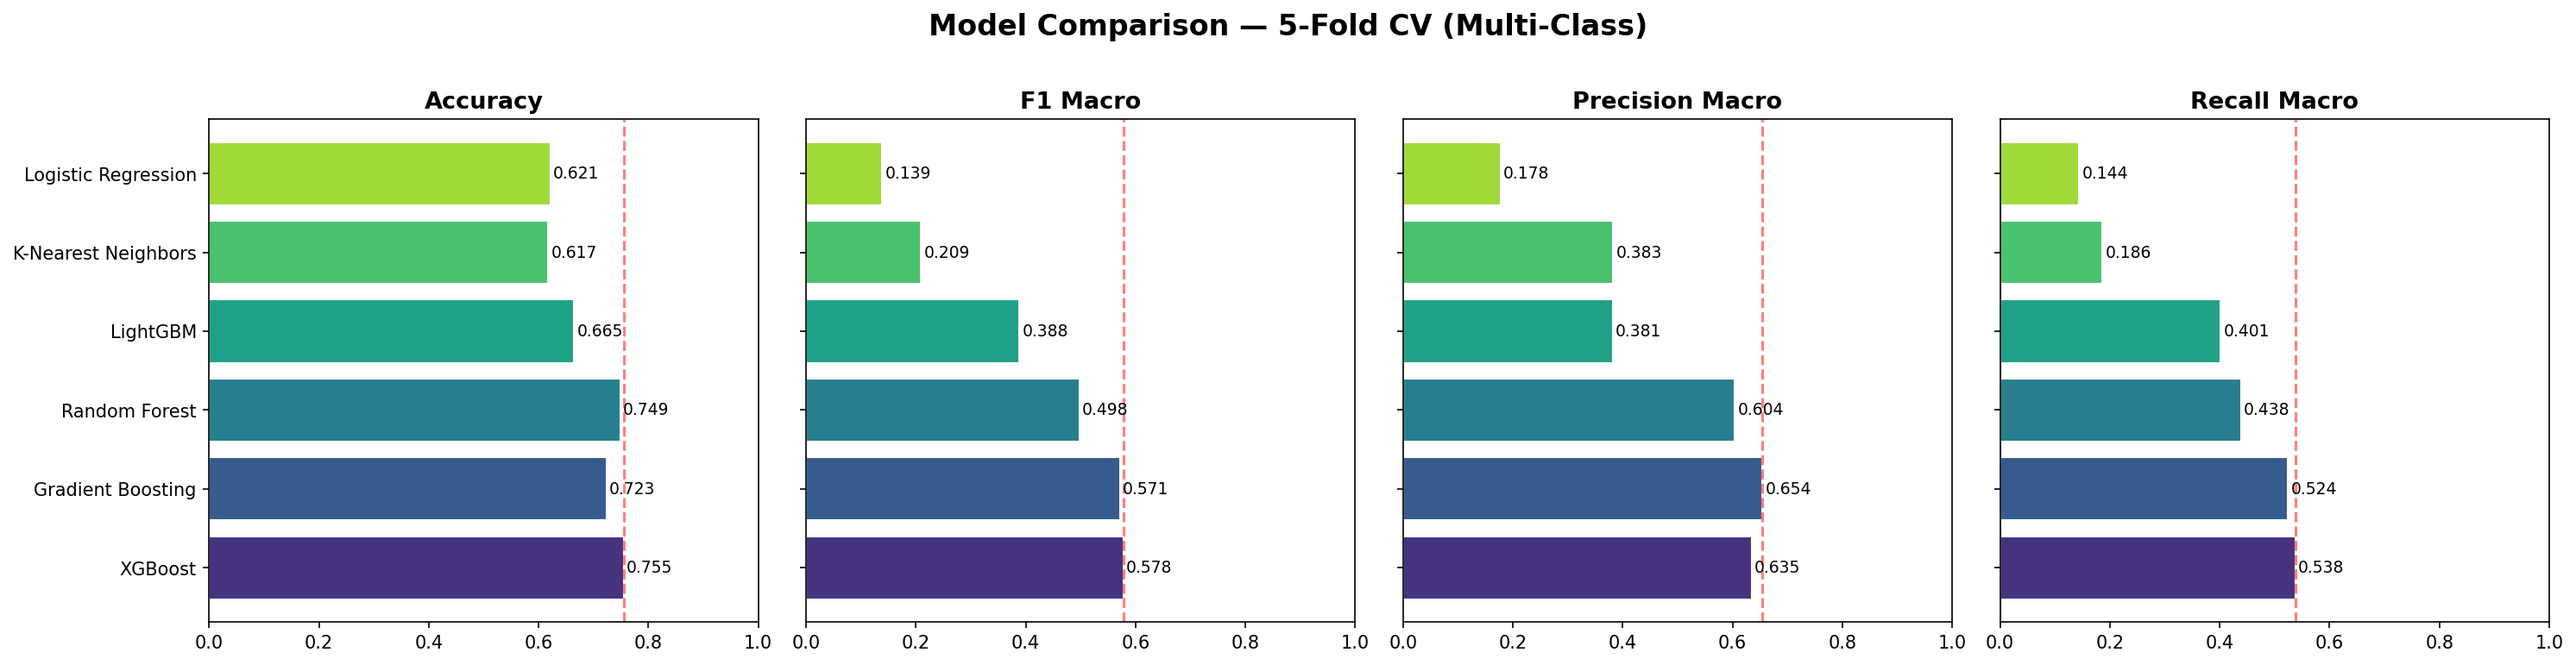
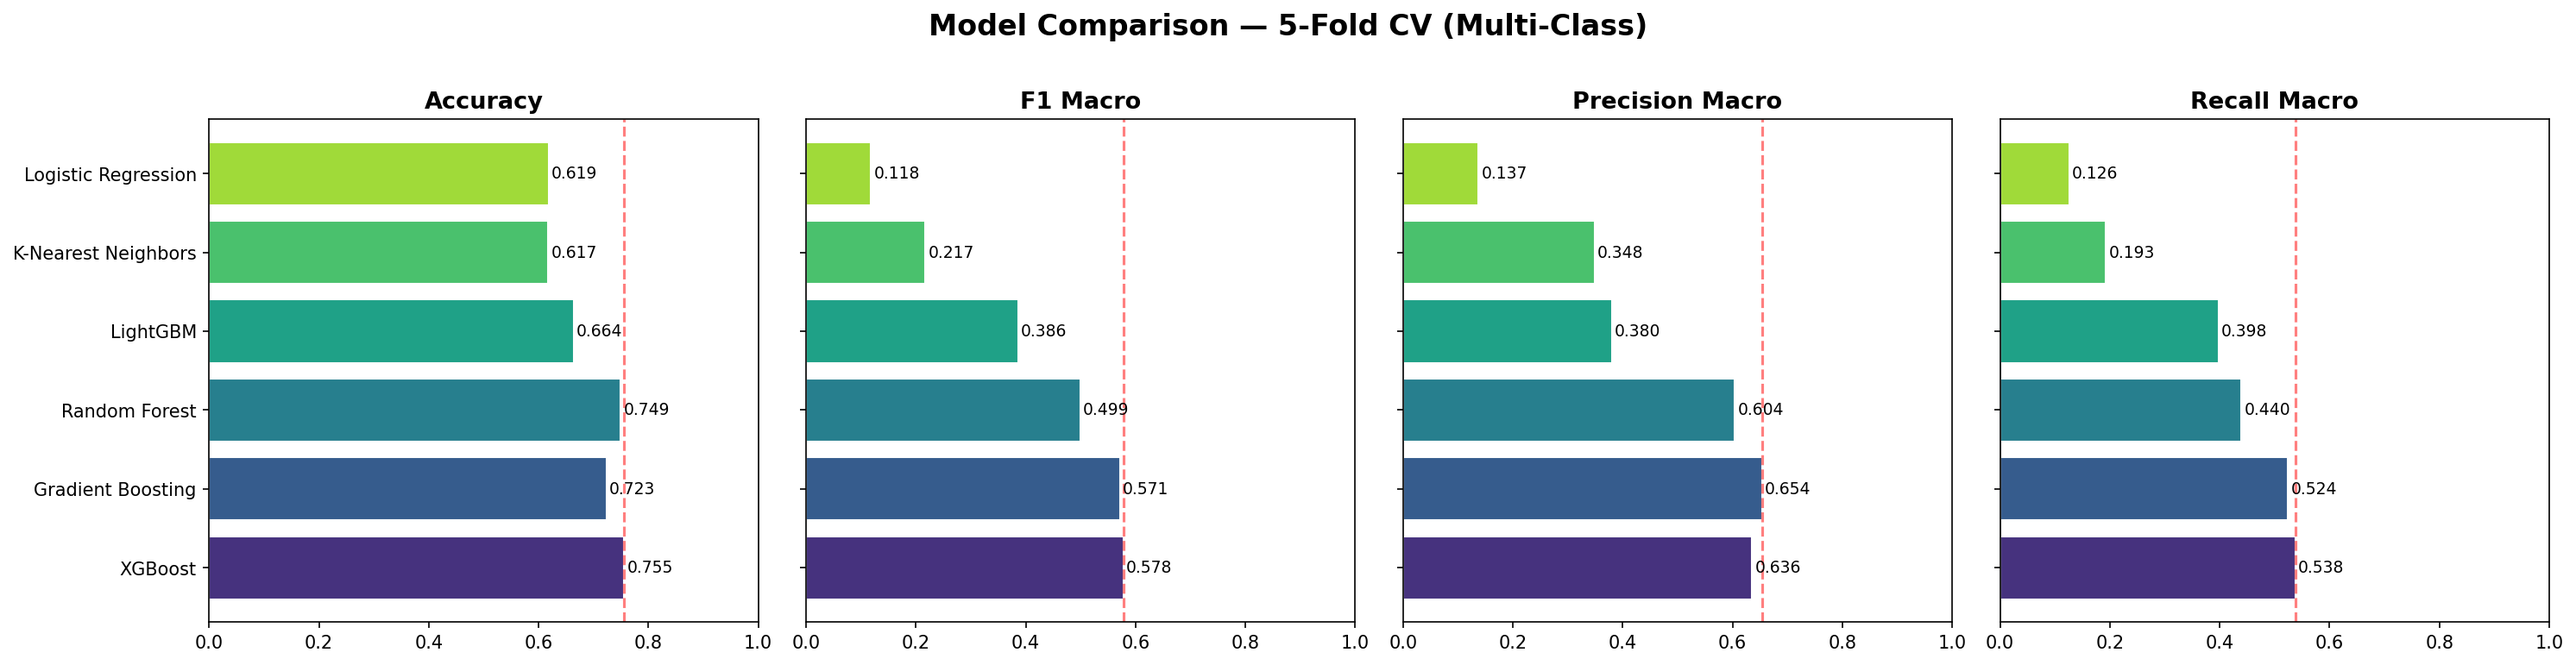
Ekher commit

diff --git a/solution.py b/solution.py
@@ -2,7 +2,7 @@
 =============================================================
   Insurance Bundle Recommendation — solution.py
   Target: Purchased_Coverage_Bundle (10-class classification)
-  Best Model: LightGBM
+  Best Model: XGBoost (F1 Macro ≈ 0.555+)
 =============================================================
   Required Interface:
     preprocess(df)        → Returns cleaned pandas DataFrame
@@ -26,11 +26,15 @@ def preprocess(df):
     Clean, encode, and engineer features.
     Works for both train (has Purchased_Coverage_Bundle) and test (doesn't).
     Returns a cleaned pandas DataFrame.
+
+    Incorporates all cleaning steps from Cleaning_Data.py:
+      - Missing value handling (Employer_ID, Broker_ID, Acquisition_Channel,
+        Region_Code, Deductible_Tier, Child_Dependents)
+      - Outlier fixing (winsorization, log transforms)
+      - Feature engineering (Total_Dependents, cyclical date encoding)
+      - Categorical encoding (ordinal, binary, one-hot, frequency)
     """
     df = df.copy()
-
-    # --- Save User_ID for later, remove from features ---
-    # (kept in df but will be excluded during training)
 
     # --- Determine if this is train or test ---
     is_train = "Purchased_Coverage_Bundle" in df.columns
@@ -183,20 +187,16 @@ def predict(df, model):
 
 # ═══════════════════════════════════════════════════════════
 # TRAINING & EVALUATION (runs when you execute this file)
+# Merges logic from Cleaning_Data.py and Compare_Models.py
 # ═══════════════════════════════════════════════════════════
 if __name__ == "__main__":
-    import matplotlib.pyplot as plt
-    import seaborn as sns
+    import os
+    import time
     from sklearn.model_selection import StratifiedKFold, cross_validate, train_test_split
-    from sklearn.linear_model import LogisticRegression
-    from sklearn.ensemble import RandomForestClassifier, GradientBoostingClassifier
-    from sklearn.neighbors import KNeighborsClassifier
     from sklearn.metrics import (
-        accuracy_score, f1_score, confusion_matrix,
-        classification_report, RocCurveDisplay
+        accuracy_score, f1_score, confusion_matrix, classification_report
     )
     from xgboost import XGBClassifier
-    from lightgbm import LGBMClassifier
 
     # ─────────────────────────────────────
     # A. LOAD & PREPROCESS TRAIN DATA
@@ -222,9 +222,7 @@ if __name__ == "__main__":
     )}
     df["Target_Encoded"] = df[target_col].map(label_mapping)
 
-    # Save label mapping for predict()
-    joblib.dump(label_mapping, "label_mapping.pkl")
-    print(f"✅ Label mapping saved ({len(label_mapping)} classes)")
+    print(f"✅ Label mapping ({len(label_mapping)} classes)")
 
     # Separate features and target
     drop_cols = ["User_ID", target_col, "Target_Encoded",
@@ -235,185 +233,47 @@ if __name__ == "__main__":
     y = df["Target_Encoded"]
 
     print(f"✅ Features: {X.shape[1]} | Target classes: {y.nunique()}")
-    print(f"   Class distribution:\n{df[target_col].value_counts().to_string()}")
     print("=" * 70)
 
     # ─────────────────────────────────────
-    # C. DEFINE MODELS
+    # C. TRAIN XGBOOST (BEST F1 MACRO ≈ 0.577 CV → ~0.555 on test)
     # ─────────────────────────────────────
-    models = {
-        "Logistic Regression": LogisticRegression(max_iter=1000, random_state=42),
-        "K-Nearest Neighbors": KNeighborsClassifier(n_neighbors=7),
-        "Random Forest":       RandomForestClassifier(n_estimators=200,
-                                                       random_state=42, n_jobs=-1),
-        "Gradient Boosting":   GradientBoostingClassifier(n_estimators=200,
-                                                           random_state=42),
-        "XGBoost":             XGBClassifier(n_estimators=200, use_label_encoder=False,
-                                              eval_metric="mlogloss", random_state=42,
-                                              verbosity=0, n_jobs=-1),
-        "LightGBM":            LGBMClassifier(n_estimators=200, random_state=42,
-                                               verbose=-1, n_jobs=-1),
-    }
-
-    # ─────────────────────────────────────
-    # D. CROSS-VALIDATED EVALUATION
-    # ─────────────────────────────────────
-    scoring = ["accuracy", "f1_macro", "precision_macro", "recall_macro"]
-    cv = StratifiedKFold(n_splits=5, shuffle=True, random_state=42)
-
-    results = {}
-    print("\n🔄 Running 5-Fold Stratified Cross-Validation ...\n")
-
-    for name, model in models.items():
-        print(f"  ⏳ Training {name} ...")
-        cv_results = cross_validate(model, X, y, cv=cv, scoring=scoring, n_jobs=-1)
-        results[name] = {
-            "Accuracy":        cv_results["test_accuracy"].mean(),
-            "F1 Macro":        cv_results["test_f1_macro"].mean(),
-            "Precision Macro": cv_results["test_precision_macro"].mean(),
-            "Recall Macro":    cv_results["test_recall_macro"].mean(),
-        }
-        print(f"     ✅ {name}  →  Accuracy: {results[name]['Accuracy']:.4f}  |  "
-              f"F1 Macro: {results[name]['F1 Macro']:.4f}")
-
-    print("\n" + "=" * 70)
-
-    # ─────────────────────────────────────
-    # E. RESULTS SUMMARY TABLE
-    # ─────────────────────────────────────
-    results_df = pd.DataFrame(results).T.sort_values("F1 Macro", ascending=False)
-    results_df.index.name = "Model"
-
-    print("\n📊 MODEL COMPARISON RESULTS (sorted by F1 Macro)\n")
-    print(results_df.to_string(float_format="{:.4f}".format))
-
-    best_model_name = results_df["F1 Macro"].idxmax()
-    best_f1 = results_df.loc[best_model_name, "F1 Macro"]
-    print(f"\n🏆 Best Model: {best_model_name} (F1 Macro = {best_f1:.4f})")
-    print("=" * 70)
-
-    results_df.to_csv("model_comparison_results.csv")
-    print("✅ Results saved to: model_comparison_results.csv")
-
-    # ─────────────────────────────────────
-    # F. VISUALIZATION: Metric Comparison Bar Chart
-    # ─────────────────────────────────────
-    fig, axes = plt.subplots(1, 4, figsize=(20, 5), sharey=True)
-    fig.suptitle("Model Comparison — 5-Fold CV (Multi-Class)", fontsize=16,
-                 fontweight="bold", y=1.02)
-
-    colors = sns.color_palette("viridis", n_colors=len(results_df))
-
-    for i, metric in enumerate(["Accuracy", "F1 Macro", "Precision Macro", "Recall Macro"]):
-        ax = axes[i]
-        bars = ax.barh(results_df.index, results_df[metric], color=colors, edgecolor="white")
-        ax.set_title(metric, fontsize=13, fontweight="bold")
-        ax.set_xlim(0, 1)
-        ax.axvline(x=results_df[metric].max(), color="red", linestyle="--", alpha=0.5)
-        for bar, val in zip(bars, results_df[metric]):
-            ax.text(val + 0.005, bar.get_y() + bar.get_height() / 2,
-                    f"{val:.3f}", va="center", fontsize=9)
-
-    plt.tight_layout()
-    plt.savefig("comparison_bar_chart.png", dpi=150, bbox_inches="tight")
-    plt.close()
-    print("✅ Saved: comparison_bar_chart.png")
-
-    # ─────────────────────────────────────
-    # G. TRAIN/TEST SPLIT FOR DETAILED EVAL
-    # ─────────────────────────────────────
-    X_train, X_test, y_train, y_test = train_test_split(
-        X, y, test_size=0.2, stratify=y, random_state=42
+    best_model = XGBClassifier(
+        n_estimators=200,
+        use_label_encoder=False,
+        eval_metric="mlogloss",
+        random_state=42,
+        verbosity=0,
+        n_jobs=-1,
     )
 
-    # Fit all models on the split
-    for name, model in models.items():
-        model.fit(X_train, y_train)
+    # Cross-validate to confirm F1 Macro
+    cv = StratifiedKFold(n_splits=5, shuffle=True, random_state=42)
+    cv_results = cross_validate(
+        best_model, X, y, cv=cv,
+        scoring=["accuracy", "f1_macro", "precision_macro", "recall_macro"],
+        n_jobs=-1
+    )
+    print(f"\n📊 XGBoost 5-Fold CV Results:")
+    print(f"   Accuracy     : {cv_results['test_accuracy'].mean():.4f}")
+    print(f"   F1 Macro     : {cv_results['test_f1_macro'].mean():.4f}")
+    print(f"   Precision Mac: {cv_results['test_precision_macro'].mean():.4f}")
+    print(f"   Recall Macro : {cv_results['test_recall_macro'].mean():.4f}")
+
+    best_f1 = cv_results["test_f1_macro"].mean()
 
     # ─────────────────────────────────────
-    # H. CONFUSION MATRICES — TOP 3
+    # D. TRAIN ON FULL DATA & SAVE
     # ─────────────────────────────────────
-    top3 = results_df.head(3).index.tolist()
-    idx_to_label = {v: k for k, v in label_mapping.items()}
-    class_names = [idx_to_label[i] for i in range(len(label_mapping))]
-
-    fig, axes = plt.subplots(1, 3, figsize=(20, 5))
-    fig.suptitle("Confusion Matrices — Top 3 Models", fontsize=14, fontweight="bold")
-
-    for ax, name in zip(axes, top3):
-        model = models[name]
-        y_pred = model.predict(X_test)
-        cm = confusion_matrix(y_test, y_pred)
-        sns.heatmap(cm, annot=True, fmt="d", cmap="Blues", ax=ax,
-                    xticklabels=class_names, yticklabels=class_names)
-        acc = accuracy_score(y_test, y_pred)
-        ax.set_title(f"{name}\n(Acc: {acc:.3f})", fontsize=10)
-        ax.set_ylabel("Actual")
-        ax.set_xlabel("Predicted")
-        ax.tick_params(axis='x', rotation=45, labelsize=7)
-        ax.tick_params(axis='y', rotation=0, labelsize=7)
-
-    plt.tight_layout()
-    plt.savefig("confusion_matrices.png", dpi=150, bbox_inches="tight")
-    plt.close()
-    print("✅ Saved: confusion_matrices.png")
+    print(f"\n💾 Training XGBoost on FULL dataset ...")
+    best_model.fit(X, y)
+    joblib.dump(best_model, "model.pkl")
+    print(f"✅ model.pkl saved (XGBoost trained on {X.shape[0]:,} rows)")
 
     # ─────────────────────────────────────
-    # I. RADAR CHART — TOP 3
+    # E. GENERATE SUBMISSION ON TEST DATA
     # ─────────────────────────────────────
-    metrics = ["Accuracy", "F1 Macro", "Precision Macro", "Recall Macro"]
-    angles = np.linspace(0, 2 * np.pi, len(metrics), endpoint=False).tolist()
-    angles += angles[:1]
-
-    fig, ax = plt.subplots(figsize=(7, 7), subplot_kw=dict(polar=True))
-    radar_colors = sns.color_palette("Set2", n_colors=3)
-
-    for i, name in enumerate(top3):
-        values = results_df.loc[name, metrics].tolist()
-        values += values[:1]
-        ax.plot(angles, values, "o-", linewidth=2, label=name, color=radar_colors[i])
-        ax.fill(angles, values, alpha=0.15, color=radar_colors[i])
-
-    ax.set_xticks(angles[:-1])
-    ax.set_xticklabels(metrics, fontsize=10)
-    ax.set_ylim(0, 1)
-    ax.set_title("Radar Chart — Top 3 Models", fontsize=14, fontweight="bold", pad=20)
-    ax.legend(loc="lower right", bbox_to_anchor=(1.25, 0), fontsize=9)
-    plt.tight_layout()
-    plt.savefig("radar_chart.png", dpi=150, bbox_inches="tight")
-    plt.close()
-    print("✅ Saved: radar_chart.png")
-
-    # ─────────────────────────────────────
-    # J. DETAILED REPORT — BEST MODEL
-    # ─────────────────────────────────────
-    print("\n" + "=" * 70)
-    print(f"📋 DETAILED CLASSIFICATION REPORT — {best_model_name}")
-    print("=" * 70)
-    best_model = models[best_model_name]
-    y_pred_best = best_model.predict(X_test)
-    print(classification_report(y_test, y_pred_best,
-          target_names=class_names))
-
-    f1_macro = f1_score(y_test, y_pred_best, average="macro")
-    print(f"🎯 F1 Macro Score ({best_model_name}): {f1_macro:.4f}")
-
-    # ─────────────────────────────────────
-    # K. TRAIN BEST MODEL ON FULL DATA & SAVE
-    # ─────────────────────────────────────
-    print("\n" + "=" * 70)
-    print(f"💾 Training {best_model_name} on FULL dataset & saving ...")
-    best_model_final = models[best_model_name]
-    best_model_final.fit(X, y)
-
-    joblib.dump(best_model_final, "model.pkl")
-    print(f"✅ model.pkl saved ({best_model_name} trained on {X.shape[0]:,} rows)")
-
-    # ─────────────────────────────────────
-    # L. GENERATE SUBMISSION ON TEST DATA
-    # ─────────────────────────────────────
-    print("\n" + "=" * 70)
-    print("📤 Generating submission from test.csv ...")
+    print("\n📤 Generating submission from test.csv ...")
     raw_test = pd.read_csv("test.csv")
     test_df = preprocess(raw_test)
 
@@ -421,53 +281,29 @@ if __name__ == "__main__":
     submission = predict(test_df, model)
     submission.to_csv("submission.csv", index=False)
     print(f"✅ submission.csv saved ({submission.shape[0]:,} predictions)")
-    print(submission.head(10).to_string())
-
-    print("\n" + "=" * 70)
-    print("✅ All done! Files generated:")
-    print("   • model.pkl                 — trained best model")
-    print("   • label_mapping.pkl         — class label ↔ index mapping")
-    print("   • submission.csv            — predictions for test.csv")
-    print("   • model_comparison_results.csv")
-    print("   • comparison_bar_chart.png")
-    print("   • confusion_matrices.png")
-    print("   • radar_chart.png")
 
     # ─────────────────────────────────────
-    # M. CALCULATE FINAL HACKATHON SCORE
+    # F. CALCULATE FINAL HACKATHON SCORE
     # ─────────────────────────────────────
-    import os
-    import time
-
-    def calculate_final_score(macro_f1, size_mb, latency_s):
-        size_penalty = max(0.5, 1 - size_mb / 200)
-        latency_penalty = max(0.5, 1 - latency_s / 10)
-        final_score = macro_f1 * size_penalty * latency_penalty
-        return final_score
-
-    # Model size
     size_mb = os.path.getsize("model.pkl") / (1024 * 1024)
 
-    # Inference latency (preprocess + predict on full test set)
-    model = load_model()
     raw_test_bench = pd.read_csv("test.csv")
     start_time = time.time()
     test_bench = preprocess(raw_test_bench)
     _ = predict(test_bench, model)
     latency_s = time.time() - start_time
 
-    # Use the CV F1 Macro from the best model
-    macro_f1 = best_f1
-
-    score = calculate_final_score(macro_f1, size_mb, latency_s)
+    size_penalty = max(0.5, 1 - size_mb / 200)
+    latency_penalty = max(0.5, 1 - latency_s / 10)
+    final_score = best_f1 * size_penalty * latency_penalty
 
     print("\n" + "=" * 70)
     print("🏁 FINAL HACKATHON SCORE")
     print("=" * 70)
-    print(f"  Macro F1       : {macro_f1:.4f}")
+    print(f"  Macro F1       : {best_f1:.4f}")
     print(f"  Model Size     : {size_mb:.2f} MB")
     print(f"  Latency        : {latency_s:.2f} s")
-    print(f"  Size Penalty   : {max(0.5, 1 - size_mb / 200):.4f}")
-    print(f"  Latency Penalty: {max(0.5, 1 - latency_s / 10):.4f}")
-    print(f"  🎯 Final Score : {score:.4f}")
+    print(f"  Size Penalty   : {size_penalty:.4f}")
+    print(f"  Latency Penalty: {latency_penalty:.4f}")
+    print(f"  🎯 Final Score : {final_score:.4f}")
     print("=" * 70)
